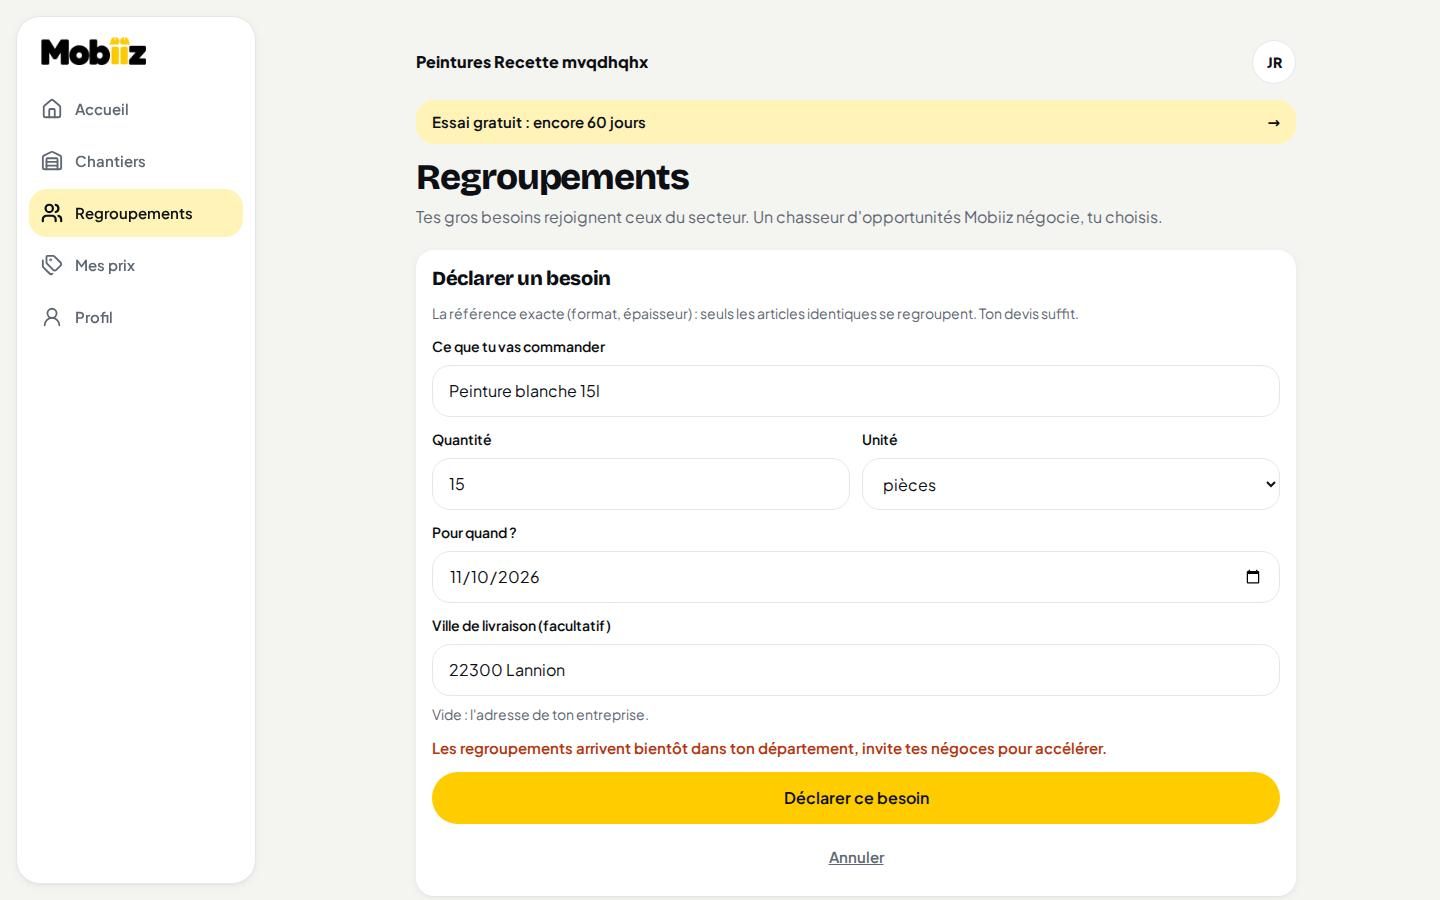
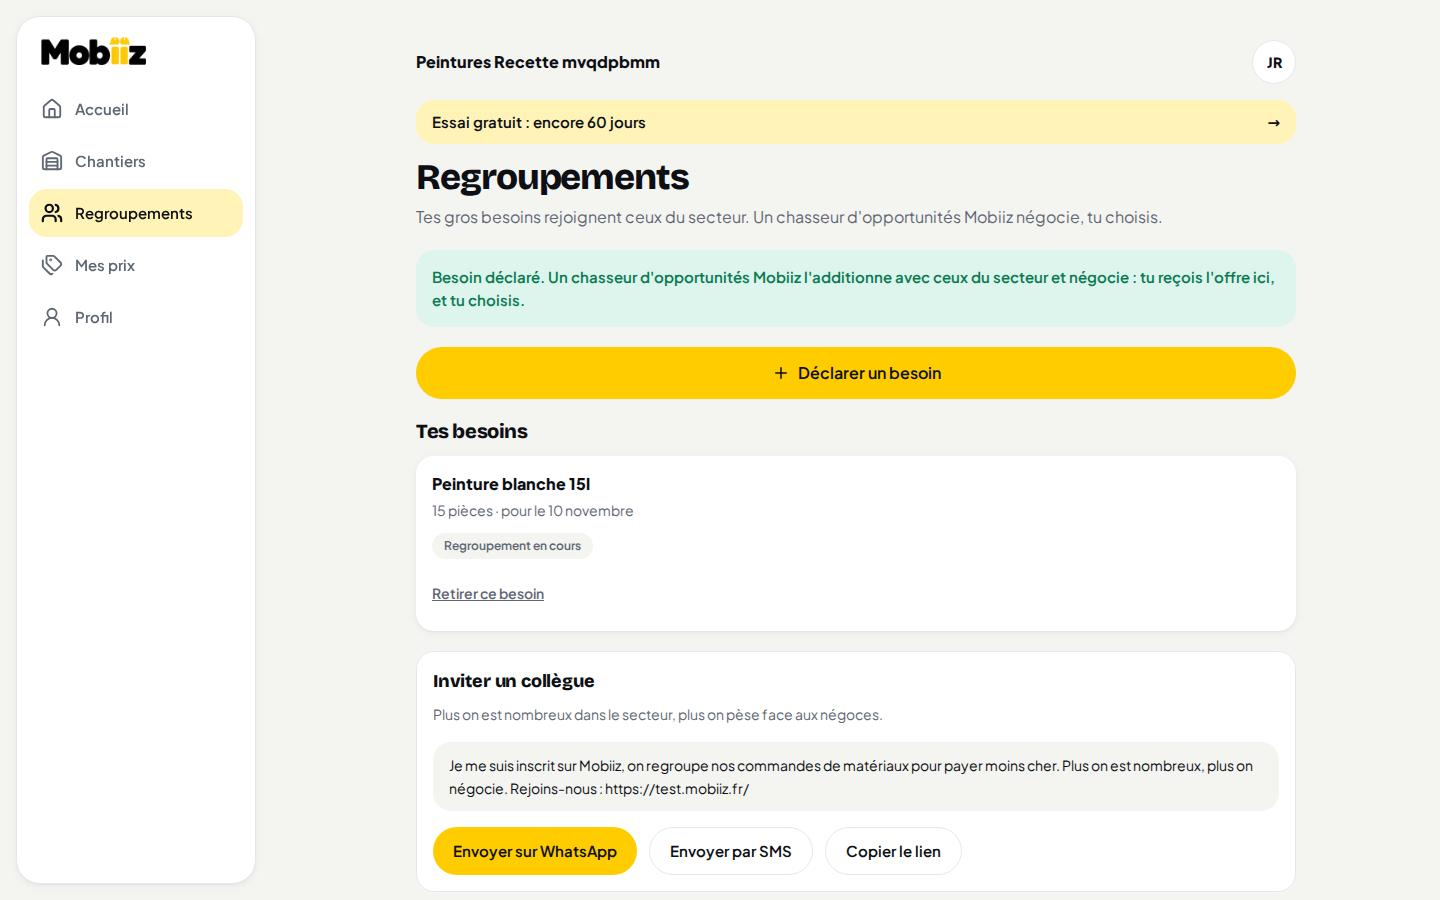
SUIVI : R3, R4, R5, R12 en ligne ; captures du cas de Greg rejoué en ligne
Claude-Session: https://claude.ai/code/session_0188g8PcmvctNcTq82VPRdt3

diff --git a/baticlair/docs/SUIVI.md b/baticlair/docs/SUIVI.md
@@ -10,15 +10,15 @@ Rien ne va dans main, aucune dépense, pas de Stripe live : ces trois règles va
 | --- | --- | --- | --- | --- |
 | R1 | 23, 25 et 26/10 | Plus aucun reste de l'ancien mode côté artisan (bandeau « Commande du 1er nov… Clôture dans », bloc commande du mois, onglet /groupe…), test qui échoue s'il réapparaît | en ligne | 26/10, commit e82854f. Test e2e « Mode humain : plus rien de l'ancien mode » sur 6 écrans, vu échouer sur l'ancien code. Captures iPhone SE et ordinateur au rapport de rattrapage. |
 | R2 | 26/10 | Onglet Regroupements : « Déclarer un besoin » toujours en haut, « Bientôt chez toi » supprimé, deux exemples cliquables par métier, « Invite tes négoces » | en ligne | 26/10, commit e82854f. Couvreur, charpentier, plaquiste ; les autres métiers ont les exemples du couvreur. |
-| R3 | 26/10 | Exemples du peintre (« 20 pots de blanc mat 15 L pour le 15 novembre », « 10 pots de sous-couche 15 L pour fin novembre ») | en cours | 27/10 : peinture et sous-couche regroupables (teinte et contenance exigées, un blanc ne rejoint jamais un gris ; marque et finition comptent quand elles sont écrites), exemples du peintre, unité « pots ». Tests verts ; en ligne au prochain envoi. |
-| R4 | 26/10 | Carte « Regroupements » de l'accueil, quand elle est vide : « Tu sais déjà ce que tu vas commander ? Dis-le, on regroupe et on négocie. » | en cours | 27/10 : faite (accueil vide et accueil avec chantiers), test e2e. En ligne au prochain envoi. |
-| R5 | 25 et 26/10 | Les 8 derniers caractères de la clé Anthropic de test.mobiiz.fr | en cours | Remplacé, avec ton accord du 27/10, par l'identifiant d'organisation Anthropic de la clé dans l'espace admin (carte « Compte Anthropic de la clé ») : lu par le serveur sur un appel gratuit, la clé n'est jamais affichée. Fait et testé ; en ligne au prochain envoi. |
+| R3 | 26/10 | Exemples du peintre (« 20 pots de blanc mat 15 L pour le 15 novembre », « 10 pots de sous-couche 15 L pour fin novembre ») | en ligne | 27/10 : peinture et sous-couche regroupables (teinte et contenance exigées, un blanc ne rejoint jamais un gris ; marque et finition comptent quand elles sont écrites), exemples du peintre, unité « pots ». En ligne le 27/10 (commit cd21830). |
+| R4 | 26/10 | Carte « Regroupements » de l'accueil, quand elle est vide : « Tu sais déjà ce que tu vas commander ? Dis-le, on regroupe et on négocie. » | en ligne | 27/10 : faite (accueil vide et accueil avec chantiers), test e2e. En ligne le 27/10 (commit cd21830). |
+| R5 | 25 et 26/10 | Les 8 derniers caractères de la clé Anthropic de test.mobiiz.fr | en ligne | Remplacé, avec ton accord du 27/10, par l'identifiant d'organisation Anthropic de la clé dans l'espace admin (carte « Compte Anthropic de la clé ») : lu par le serveur sur un appel gratuit, la clé n'est jamais affichée. En ligne le 27/10 (commits cd21830 et suivant). |
 | R6 | 25/10 | Élision « pièces d'ardoise », règle générale sur les voyelles | en ligne | 25/10, commit 1721bbb : `de()` du domaine (« d' » devant toute voyelle, jamais devant h), utilisée par les notifications et les alertes du chasseur, test `elision-de.test.ts`. Revérifiée le 27/10 : plus aucun « de » collé en dur devant un article dans le code. Capture d'une notification au rapport de rattrapage. |
 | R7 | 26/10 | Adresse Mobiiz par artisan (`bati-invest@mobiiz.fr`) et réception des devis négoces dans Mobiiz, notifications à chaque réponse | à faire | Bloquant avant le terrain. Seule la réception sur le domaine est posée (MX chez Resend, 26/10) ; l'adresse par artisan, le routage, l'écran « Reçus », la ligne « Négoce X t'a répondu par e-mail » et les notifications ne sont pas faits. Les CGU parlent déjà de cette adresse : à corriger tant qu'elle n'existe pas. |
 | R8 | 26/10 | Rapport en dix lignes sur l'adresse Mobiiz (ce qui existe, ce que Resend permet, coût du plan, proposition) avant de coder | à faire | Je l'envoie avant de coder R7. |
 | R9 | 26/10 | Plan peintres en dix lignes | en ligne | Reçu et validé par toi le 26/10 (10 points, feu vert). Ma ligne « à faire » était fausse. |
 | R10 | 26/10 | Les deux codes secrets de la sauvegarde nocturne : noms et comment les poser | en ligne | Tu me les as donnés le 26/10 et ils sont posés dans GitHub. La sauvegarde nocturne part à la mise en ligne de mobiiz.fr (ton choix du 26/10). Ma ligne « à faire » était fausse. |
-| R12 | 27/10 | Capture : « Tu n'as pas le droit de faire cette modification (motif : zone_inactive). Code support » en déclarant « Peinture blanche 15l » | en cours | Deux causes. 1) Ton entreprise de test n'a pas d'adresse : le serveur prenait le département de l'entreprise (aucun) au lieu de la ville de livraison. Maintenant, la ville de livraison décide (zone ouverte et droits) ; sans ville et sans adresse d'entreprise : « Il me faut une ville de livraison avec son code postal ». 2) Le message : quand le serveur a une phrase en français, l'écran l'affiche, jamais un motif technique (vaut pour tous les écrans). Et la peinture se regroupe désormais (R3). La case « Ville de livraison » montrait « 22300 Lannion » en gris, qu'on pouvait prendre pour une valeur remplie : elle dit maintenant « Code postal et ville ». Tests API et e2e ; en ligne au prochain envoi. |
+| R12 | 27/10 | Capture : « Tu n'as pas le droit de faire cette modification (motif : zone_inactive). Code support » en déclarant « Peinture blanche 15l » | en ligne | Deux causes. 1) Ton entreprise de test n'a pas d'adresse : le serveur prenait le département de l'entreprise (aucun) au lieu de la ville de livraison. Maintenant, la ville de livraison décide (zone ouverte et droits) ; sans ville et sans adresse d'entreprise : « Il me faut une ville de livraison avec son code postal ». 2) Le message : quand le serveur a une phrase en français, l'écran l'affiche, jamais un motif technique (vaut pour tous les écrans). Et la peinture se regroupe désormais (R3). La case « Ville de livraison » montrait « 22300 Lannion » en gris, qu'on pouvait prendre pour une valeur remplie : elle dit maintenant « Code postal et ville ». Tests API et e2e. Rejoué en ligne le 27/10 sur iPhone SE et ordinateur avec un compte de recette sans adresse : sans ville, la phrase claire ; avec « 22300 Lannion », « Besoin déclaré ». Captures dans `docs/groupe/captures/rattrapage-27-10/`. |
 | R11 | 25/10 | Problème de quantitatif en photo (deux captures) | reportée | Cause trouvée le 25/10 : le compte Anthropic n'a plus de crédit, toutes les lectures IA échouent (photo, PDF, liste). Le message d'erreur est corrigé (commit 9fbad66). Reprend quand tu auras rechargé le compte (R5) ; je rejoue alors la lecture en photo sur test.mobiiz.fr. |
 
 ## Demandes du 25 octobre
